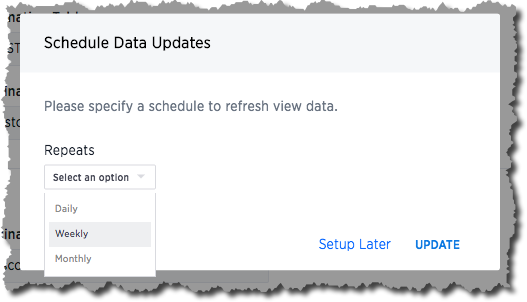
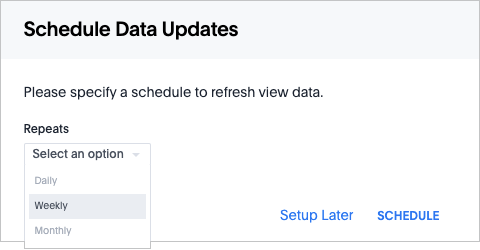
updates to schedule materialization on a view page per vishwas

Changed region(s): [[0.0, 0.0, 1.0, 1.0]]

diff --git a/_admin/loading/schedule-materialization.md b/_admin/loading/schedule-materialization.md
@@ -18,21 +18,19 @@ To schedule materialization of a view:
 
 3. Click **Schema**.
 
-4. Under **Materialization**, click the link next to **Update Schedule:**.
+4. Under **Materialization**, click the link next to **Update Schedule**.
 
-5. In the **Schedule data updates** dialog, select an option for **Repeats** (Monthly, Weekly, or Daily).
+5. In the **Schedule Data Updates** dialog, select an option for **Repeats** (Monthly, Weekly, or Daily).
 
    ![]({{ site.baseurl }}/images/materialized-view-sched-weekly.png)
-
-   If you don't want to set a schedule now, choose **Setup later** and skip to Step 11.
 
 6. Fill in the schedule details:
 
    ![]({{ site.baseurl }}/images/schedule-data-updates-weekly.png)
 
-7. Click **Update**.
+7. Click **SCHEDULE**.
 
-{% include note.html content="Refresh works only if it is scheduled in the refresh window set for the cluster (default: 8:00 PM - 4:00 AM). Only the start time of the refresh window is configurable." %}
+{% include note.html content="Refresh works only if it is scheduled in the refresh window set for the cluster (default: 8:00 PM - 4:00 AM). Only the start time of the refresh window is configurable using the flag `orion.materializationConfig.refreshWindowStartTime` which can be set to values such as `12:00PM` or `01:00AM` etc. Example: To set the cluster window from 2:00 AM to 10:00 AM you can set the flag as `orion.materializationConfig.refreshWindowStartTime \"02:00AM\"`."%}
 
 ## Related Information
 
